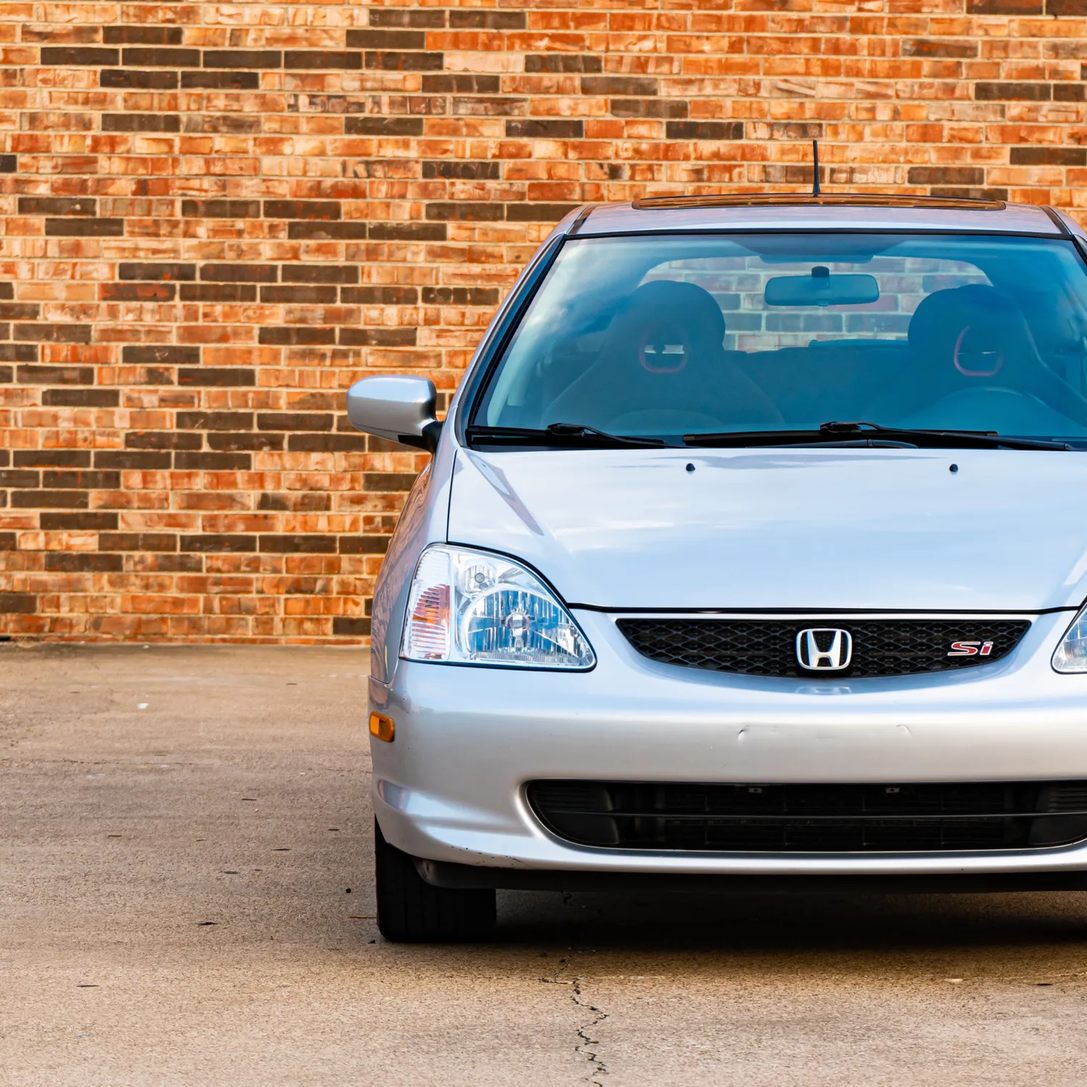
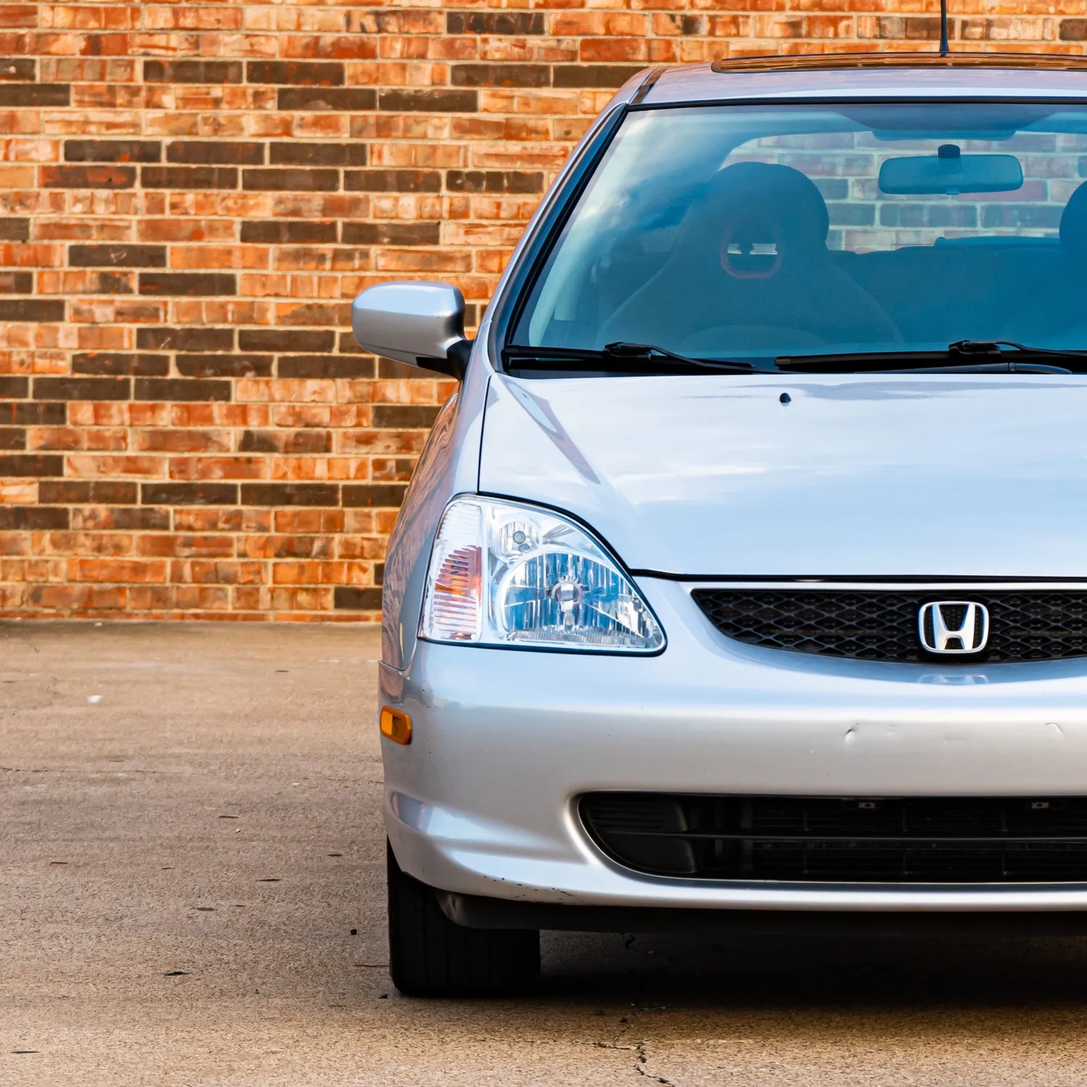
add image descriptions

diff --git a/_site/assets/css/style.css b/_site/assets/css/style.css
@@ -1,1 +1,1 @@
-html,body,div,span,applet,object,iframe,h1,h2,h3,h4,h5,h6,p,blockquote,pre,a,abbr,acronym,address,big,cite,code,del,dfn,em,img,ins,kbd,q,s,samp,small,strike,strong,sub,sup,tt,var,b,u,i,center,dl,dt,dd,ol,ul,li,fieldset,form,label,legend,table,caption,tbody,tfoot,thead,tr,th,td,article,aside,canvas,details,embed,figure,figcaption,footer,header,hgroup,menu,nav,output,ruby,section,summary,time,mark,audio,video{margin:0;padding:0;border:0;font-size:100%;font:inherit;vertical-align:baseline}article,aside,details,figcaption,figure,footer,header,hgroup,menu,nav,section{display:block}body{line-height:1}ol,ul{list-style:none}blockquote,q{quotes:none}blockquote:before,blockquote:after,q:before,q:after{content:"";content:none}table{border-collapse:collapse;border-spacing:0}*,*:after,*:before{box-sizing:inherit}html{--color-text: hsl(208,20%,10%);--color-heading: hsl(208,15%,20%);--color-background: hsl(208,5%,90%);--color-button-primary-default: hsl(208,39%,25%);--color-button-primary-text: hsl(208,39%,100%);--color-button-primary-hover: hsl(208,39%,20%);--color-button-outline-primary-default: hsl(208,39%,25%);--color-button-outline-primary-hover: hsl(208,39%,20%);--color-button-secondary-default: hsl(40,55%,55%);--color-button-secondary-text: hsl(208,20%,10%);--color-button-secondary-hover: hsl(208,20%,10%);--color-link-default: #42668c;--color-link-hover: #294058;--color-link-underline: rgba(41, 64, 88, .25)}[data-ui=dark]{--color-text: hsl(208,20%,90%);--color-heading: hsl(208,15%,90%);--color-background: hsl(208,5%,10%);--color-link-default: #7ea5d0;--color-link-hover: #aeccec;--color-link-underline: rgba(174, 204, 236, .25);--color-button-primary-hover: hsl(208,39%,30%);--color-button-secondary-hover: hsl(40,55%,65%)}.container{max-width:50em;margin:0 auto}dd,dt,li,blockquote,dl,figure,form,ol,p,pre,table,ul,fieldset,input,select,textarea{margin-bottom:2rem}.container-sm{width:100%;margin:0 auto;max-width:640px;position:relative}.container-md{width:100%;margin:0 auto;max-width:769px;position:relative}.container-lg{width:100%;margin:0 auto;max-width:1025px;position:relative}.container-xl{width:100%;margin:0 auto;max-width:1280px;position:relative}b,strong{font-weight:bold}p{color:var(--color-text);margin-top:0;margin-bottom:1.25rem}em{font-style:italic}p:last-child,h1:last-child,h2:last-child,h3:last-child,h4:last-child,h5:last-child,h6:last-child{margin-bottom:0;padding-bottom:0}h1,h2,h3,h4,h5,h6{font-family:"Lato","Helvetica","Arial",sans-serif;font-weight:700;color:var(--color-heading);margin:0 0 1rem 0}h1{font:900 6rem/1 "Lato"}h1 a{font-weight:700}h2{font:900 4rem/1.1 "Lato"}h2 a{font-weight:700}h3{font:700 3rem/1.2 "Lato"}h3 a{font-weight:700}h4{font-size:2.4rem;line-height:1.35}h5{font-size:2rem;line-height:1.4}h6{font-size:1.6rem;letter-spacing:0;line-height:1.4}h1+p,h2+p,h3+p,h4+p,h5+p,h6+p,ul+p,ol+p{margin-top:1rem}ul+h1,ul+h2,ul+h3,ol+h1,ol+h2,ol+h3,p+h1,p+h2,p+h3,a+h1,a+h2,a+h3,ul+h4,ul+h5,ul+h6,ol+h4,ol+h5,ol+h6,p+h4,p+h5,p+h6{margin-top:4rem}sup{vertical-align:super;font-size:.7em}ul{list-style-type:disc;margin-left:2rem}ul li{margin-bottom:1rem}ol{list-style-type:decimal;margin-left:2rem}ol li{margin-bottom:1rem}p{line-height:1.5;margin:0 0 .75em 0}ion-icon{vertical-align:-0.15em}.semibold{font-weight:600}.clearfix:after{clear:both;content:" ";display:table}.float-left{float:left}.float-right{float:right}.hidden{display:none}.features{margin:0;padding:0;list-style-type:none}.features li{margin:0;padding:0}*,*:after,*:before{box-sizing:inherit}html{box-sizing:border-box;font-size:62.5%;overflow-x:hidden;scrollbar-width:thin;background:var(--color-background);scroll-behavior:smooth}body{font-size:100%;font-smoothing:antialiased;-webkit-font-smoothing:antialiased;-moz-osx-font-smoothing:grayscale;color:var(--color-text);font-family:"Source Sans Pro","Helvetica","Arial",sans-serif;font-size:1.8em;font-weight:400;line-height:1.5;margin:0}main{overflow-x:hidden;max-width:100vw}img{width:100%;display:block}a{text-decoration:none;color:var(--color-link-default);font-weight:700;text-transform:uppercase;letter-spacing:.1em}a:focus,a:hover{color:var(--color-link-hover);text-decoration:underline;text-decoration-color:var(--color-link-underline)}dl,ol,ul{list-style:none;margin-top:0;padding-left:0}dl dl,dl ol,dl ul,ol dl,ol ol,ol ul,ul dl,ul ol,ul ul{font-size:90%;margin:1.5rem 0 1.5rem 3rem}ol{list-style:decimal}ul{list-style:circle}.callout{font-size:1.25em;text-align:center;background:#b51a1a;background:linear-gradient(20deg, #8c1010 0%, #d32f2f 100%);padding:4rem}.callout .container{max-width:60ch}figure{margin:0;position:relative;overflow:hidden;flex-grow:1;display:flex;flex-direction:column}@media(min-width: 1025px){figure{height:auto}}figure picture{flex-grow:1;display:block;height:100%}figure img{width:100%;height:100%;object-fit:cover}figure figcaption{position:absolute;width:100%;left:0}.hero img{height:60rem}.caption-bottom figcaption{bottom:0;text-shadow:2px 2px 5px rgba(0,0,0,.5);background-image:linear-gradient(rgba(0, 0, 0, 0), black);padding:6rem 2rem 2rem 2rem}.caption-top figcaption{top:0;background-image:linear-gradient(white, rgba(255, 255, 255, 0));padding:4rem 4rem 20rem 4rem}.section-intro{min-height:60rem}.highlight{border-left:1rem solid #d32f2f;padding-left:2rem}.red-s{color:#d32f2f}.features{display:flex;flex-direction:column;margin:2rem 0 0 0}@media(min-width: 769px){.features{margin:0 0 0 2rem;min-width:35ch;width:30%}}li.feature{flex-grow:1;border-top:1rem solid #d32f2f;padding:2rem;background:#000}li.feature:not(:last-child){margin-bottom:2rem}.viewer-wrapper{width:100vw;height:50vw;position:relative}.viewer{transform-origin:top left;will-change:transform;filter:contrast(105%) saturate(110%);cursor:grab}.viewer:active{cursor:grabbing}.overlay{position:absolute;opacity:1;background:rgba(0,0,0,.5);width:100%;height:100%;z-index:1;display:flex;align-items:center;justify-content:center;pointer-events:none;transition:250ms opacity ease-out}.overlay[data-show=false]{opacity:0}.viewer-button{color:#fff;opacity:.7;line-height:0;position:absolute;font-size:4rem;height:4rem;top:calc(50% - 2rem);z-index:2;background:none;border:none;padding:0;cursor:pointer}.viewer-button:hover,.viewer-button:focus{opacity:1;background:0;border:0}.button-right{right:3%}.button-left{left:3%}.grid{display:grid;width:100%;padding:.5rem;grid-template-columns:1fr;grid-gap:.5rem}@media(min-width: 769px){.grid{grid-template-columns:1fr 1fr}}.grid img{width:100%;height:100%;object-fit:cover}.grid figure{height:100%}.two-up{min-height:20em;height:100%;display:grid;grid-gap:.5rem;grid-template-columns:1fr 1fr}.full{grid-column:span 2}.tall{min-height:30em}.half{grid-column:span 2}@media(min-width: 769px){.half{grid-column:span 1}}.section-marquis{padding:2rem}@media(min-width: 769px){.section-marquis{display:flex;justify-content:center}}.text-block{padding:2rem}#about{background:linear-gradient(45deg, #ccc 0%, #ffffff 100%)}/*# sourceMappingURL=style.css.map */
+html,body,div,span,applet,object,iframe,h1,h2,h3,h4,h5,h6,p,blockquote,pre,a,abbr,acronym,address,big,cite,code,del,dfn,em,img,ins,kbd,q,s,samp,small,strike,strong,sub,sup,tt,var,b,u,i,center,dl,dt,dd,ol,ul,li,fieldset,form,label,legend,table,caption,tbody,tfoot,thead,tr,th,td,article,aside,canvas,details,embed,figure,figcaption,footer,header,hgroup,menu,nav,output,ruby,section,summary,time,mark,audio,video{margin:0;padding:0;border:0;font-size:100%;font:inherit;vertical-align:baseline}article,aside,details,figcaption,figure,footer,header,hgroup,menu,nav,section{display:block}body{line-height:1}ol,ul{list-style:none}blockquote,q{quotes:none}blockquote:before,blockquote:after,q:before,q:after{content:"";content:none}table{border-collapse:collapse;border-spacing:0}*,*:after,*:before{box-sizing:inherit}html{--color-text: hsl(208,20%,10%);--color-heading: hsl(208,15%,20%);--color-background: hsl(208,5%,90%);--color-button-primary-default: hsl(208,39%,25%);--color-button-primary-text: hsl(208,39%,100%);--color-button-primary-hover: hsl(208,39%,20%);--color-button-outline-primary-default: hsl(208,39%,25%);--color-button-outline-primary-hover: hsl(208,39%,20%);--color-button-secondary-default: hsl(40,55%,55%);--color-button-secondary-text: hsl(208,20%,10%);--color-button-secondary-hover: hsl(208,20%,10%);--color-link-default: #42668c;--color-link-hover: #294058;--color-link-underline: rgba(41, 64, 88, .25)}[data-ui=dark]{--color-text: hsl(208,20%,90%);--color-heading: hsl(208,15%,90%);--color-background: hsl(208,5%,10%);--color-link-default: #7ea5d0;--color-link-hover: #aeccec;--color-link-underline: rgba(174, 204, 236, .25);--color-button-primary-hover: hsl(208,39%,30%);--color-button-secondary-hover: hsl(40,55%,65%)}.container{max-width:50em;margin:0 auto}dd,dt,li,blockquote,dl,figure,form,ol,p,pre,table,ul,fieldset,input,select,textarea{margin-bottom:2rem}.container-sm{width:100%;margin:0 auto;max-width:640px;position:relative}.container-md{width:100%;margin:0 auto;max-width:769px;position:relative}.container-lg{width:100%;margin:0 auto;max-width:1025px;position:relative}.container-xl{width:100%;margin:0 auto;max-width:1280px;position:relative}b,strong{font-weight:bold}p{color:var(--color-text);margin-top:0;margin-bottom:1.25rem}em{font-style:italic}p:last-child,h1:last-child,h2:last-child,h3:last-child,h4:last-child,h5:last-child,h6:last-child{margin-bottom:0;padding-bottom:0}h1,h2,h3,h4,h5,h6{font-family:"Lato","Helvetica","Arial",sans-serif;font-weight:700;color:var(--color-heading);margin:0 0 1rem 0}h1{font:900 6rem/1 "Lato"}h1 a{font-weight:700}h2{font:900 4rem/1.1 "Lato"}h2 a{font-weight:700}h3{font:700 3rem/1.2 "Lato"}h3 a{font-weight:700}h4{font-size:2.4rem;line-height:1.35}h5{font-size:2rem;line-height:1.4}h6{font-size:1.6rem;letter-spacing:0;line-height:1.4}h1+p,h2+p,h3+p,h4+p,h5+p,h6+p,ul+p,ol+p{margin-top:1rem}ul+h1,ul+h2,ul+h3,ol+h1,ol+h2,ol+h3,p+h1,p+h2,p+h3,a+h1,a+h2,a+h3,ul+h4,ul+h5,ul+h6,ol+h4,ol+h5,ol+h6,p+h4,p+h5,p+h6{margin-top:4rem}sup{vertical-align:super;font-size:.7em}ul{list-style-type:disc;margin-left:2rem}ul li{margin-bottom:1rem}ol{list-style-type:decimal;margin-left:2rem}ol li{margin-bottom:1rem}p{line-height:1.5;margin:0 0 .75em 0}ion-icon{vertical-align:-0.15em}.semibold{font-weight:600}.clearfix:after{clear:both;content:" ";display:table}.float-left{float:left}.float-right{float:right}.hidden{display:none}.features{margin:0;padding:0;list-style-type:none}.features li{margin:0;padding:0}*,*:after,*:before{box-sizing:inherit}html{box-sizing:border-box;font-size:62.5%;overflow-x:hidden;scrollbar-width:thin;background:var(--color-background);scroll-behavior:smooth}body{font-size:100%;font-smoothing:antialiased;-webkit-font-smoothing:antialiased;-moz-osx-font-smoothing:grayscale;color:var(--color-text);font-family:"Source Sans Pro","Helvetica","Arial",sans-serif;font-size:1.8em;font-weight:400;line-height:1.5;margin:0}main{overflow-x:hidden;max-width:100vw}img{width:100%;display:block}a{text-decoration:none;color:var(--color-link-default);font-weight:700;text-transform:uppercase;letter-spacing:.1em}a:focus,a:hover{color:var(--color-link-hover);text-decoration:underline;text-decoration-color:var(--color-link-underline)}dl,ol,ul{list-style:none;margin-top:0;padding-left:0}dl dl,dl ol,dl ul,ol dl,ol ol,ol ul,ul dl,ul ol,ul ul{font-size:90%;margin:1.5rem 0 1.5rem 3rem}ol{list-style:decimal}ul{list-style:circle}.callout{font-size:1.25em;text-align:center;background:#b51a1a;background:linear-gradient(20deg, #8c1010 0%, #d32f2f 100%);padding:4rem}.callout .container{max-width:60ch}figure{margin:0;position:relative;overflow:hidden;flex-grow:1;display:flex;flex-direction:column}@media(min-width: 1025px){figure{height:auto}}figure picture{flex-grow:1}figure img{width:100%;height:100%;object-fit:cover}figure figcaption{position:absolute;width:100%;left:0}.hero img{position:relative;min-height:50rem}@media(min-width: 769px){.hero img{position:absolute}}.caption-bottom figcaption{bottom:0;text-shadow:2px 2px 5px rgba(0,0,0,.5);background-image:linear-gradient(rgba(0, 0, 0, 0), black);padding:6rem 2rem 2rem 2rem}.caption-top figcaption{top:0;background-image:linear-gradient(white, rgba(255, 255, 255, 0));padding:4rem 4rem 20rem 4rem}.section-intro{min-height:60rem}.highlight{border-left:1rem solid #d32f2f;padding-left:2rem}.red-s{color:#d32f2f}.features{display:flex;flex-direction:column;margin:2rem 0 0 0}@media(min-width: 769px){.features{margin:0 0 0 2rem;min-width:35ch;width:30%}}li.feature{flex-grow:1;border-top:1rem solid #d32f2f;padding:2rem;background:#000}li.feature:not(:last-child){margin-bottom:2rem}.viewer-wrapper{width:100vw;height:50vw;position:relative}.viewer{transform-origin:top left;will-change:transform;filter:contrast(105%) saturate(110%);cursor:grab}.viewer:active{cursor:grabbing}.overlay{position:absolute;opacity:1;background:rgba(0,0,0,.5);width:100%;height:100%;z-index:1;display:flex;align-items:center;justify-content:center;pointer-events:none;transition:250ms opacity ease-out}.overlay[data-show=false]{opacity:0}.viewer-button{color:#fff;opacity:.7;line-height:0;position:absolute;font-size:4rem;height:4rem;top:calc(50% - 2rem);z-index:2;background:none;border:none;padding:0;cursor:pointer}.viewer-button:hover,.viewer-button:focus{opacity:1;background:0;border:0}.button-right{right:3%}.button-left{left:3%}.grid{display:grid;width:100%;padding:.5rem;grid-template-columns:1fr;grid-gap:.5rem}@media(min-width: 769px){.grid{grid-template-columns:1fr 1fr}}.grid img{width:100%;height:100%;object-fit:cover}.grid figure{height:100%}.two-up{min-height:20em;height:100%;display:grid;grid-gap:.5rem;grid-template-columns:1fr 1fr}.full{grid-column:span 2}.tall{min-height:30em}.half{grid-column:span 2}@media(min-width: 769px){.half{grid-column:span 1}}.section-marquis{padding:2rem}@media(min-width: 769px){.section-marquis{display:flex;justify-content:center}}.text-block{padding:2rem}#about{background:linear-gradient(45deg, #ccc 0%, #ffffff 100%)}/*# sourceMappingURL=style.css.map */

diff --git a/assets/css/style.css b/assets/css/style.css
@@ -1,1 +1,1 @@
-html,body,div,span,applet,object,iframe,h1,h2,h3,h4,h5,h6,p,blockquote,pre,a,abbr,acronym,address,big,cite,code,del,dfn,em,img,ins,kbd,q,s,samp,small,strike,strong,sub,sup,tt,var,b,u,i,center,dl,dt,dd,ol,ul,li,fieldset,form,label,legend,table,caption,tbody,tfoot,thead,tr,th,td,article,aside,canvas,details,embed,figure,figcaption,footer,header,hgroup,menu,nav,output,ruby,section,summary,time,mark,audio,video{margin:0;padding:0;border:0;font-size:100%;font:inherit;vertical-align:baseline}article,aside,details,figcaption,figure,footer,header,hgroup,menu,nav,section{display:block}body{line-height:1}ol,ul{list-style:none}blockquote,q{quotes:none}blockquote:before,blockquote:after,q:before,q:after{content:"";content:none}table{border-collapse:collapse;border-spacing:0}*,*:after,*:before{box-sizing:inherit}html{--color-text: hsl(208,20%,10%);--color-heading: hsl(208,15%,20%);--color-background: hsl(208,5%,90%);--color-button-primary-default: hsl(208,39%,25%);--color-button-primary-text: hsl(208,39%,100%);--color-button-primary-hover: hsl(208,39%,20%);--color-button-outline-primary-default: hsl(208,39%,25%);--color-button-outline-primary-hover: hsl(208,39%,20%);--color-button-secondary-default: hsl(40,55%,55%);--color-button-secondary-text: hsl(208,20%,10%);--color-button-secondary-hover: hsl(208,20%,10%);--color-link-default: #42668c;--color-link-hover: #294058;--color-link-underline: rgba(41, 64, 88, .25)}[data-ui=dark]{--color-text: hsl(208,20%,90%);--color-heading: hsl(208,15%,90%);--color-background: hsl(208,5%,10%);--color-link-default: #7ea5d0;--color-link-hover: #aeccec;--color-link-underline: rgba(174, 204, 236, .25);--color-button-primary-hover: hsl(208,39%,30%);--color-button-secondary-hover: hsl(40,55%,65%)}.container{max-width:50em;margin:0 auto}dd,dt,li,blockquote,dl,figure,form,ol,p,pre,table,ul,fieldset,input,select,textarea{margin-bottom:2rem}.container-sm{width:100%;margin:0 auto;max-width:640px;position:relative}.container-md{width:100%;margin:0 auto;max-width:769px;position:relative}.container-lg{width:100%;margin:0 auto;max-width:1025px;position:relative}.container-xl{width:100%;margin:0 auto;max-width:1280px;position:relative}b,strong{font-weight:bold}p{color:var(--color-text);margin-top:0;margin-bottom:1.25rem}em{font-style:italic}p:last-child,h1:last-child,h2:last-child,h3:last-child,h4:last-child,h5:last-child,h6:last-child{margin-bottom:0;padding-bottom:0}h1,h2,h3,h4,h5,h6{font-family:"Lato","Helvetica","Arial",sans-serif;font-weight:700;color:var(--color-heading);margin:0 0 1rem 0}h1{font:900 6rem/1 "Lato"}h1 a{font-weight:700}h2{font:900 4rem/1.1 "Lato"}h2 a{font-weight:700}h3{font:700 3rem/1.2 "Lato"}h3 a{font-weight:700}h4{font-size:2.4rem;line-height:1.35}h5{font-size:2rem;line-height:1.4}h6{font-size:1.6rem;letter-spacing:0;line-height:1.4}h1+p,h2+p,h3+p,h4+p,h5+p,h6+p,ul+p,ol+p{margin-top:1rem}ul+h1,ul+h2,ul+h3,ol+h1,ol+h2,ol+h3,p+h1,p+h2,p+h3,a+h1,a+h2,a+h3,ul+h4,ul+h5,ul+h6,ol+h4,ol+h5,ol+h6,p+h4,p+h5,p+h6{margin-top:4rem}sup{vertical-align:super;font-size:.7em}ul{list-style-type:disc;margin-left:2rem}ul li{margin-bottom:1rem}ol{list-style-type:decimal;margin-left:2rem}ol li{margin-bottom:1rem}p{line-height:1.5;margin:0 0 .75em 0}ion-icon{vertical-align:-0.15em}.semibold{font-weight:600}.clearfix:after{clear:both;content:" ";display:table}.float-left{float:left}.float-right{float:right}.hidden{display:none}.features{margin:0;padding:0;list-style-type:none}.features li{margin:0;padding:0}*,*:after,*:before{box-sizing:inherit}html{box-sizing:border-box;font-size:62.5%;overflow-x:hidden;scrollbar-width:thin;background:var(--color-background);scroll-behavior:smooth}body{font-size:100%;font-smoothing:antialiased;-webkit-font-smoothing:antialiased;-moz-osx-font-smoothing:grayscale;color:var(--color-text);font-family:"Source Sans Pro","Helvetica","Arial",sans-serif;font-size:1.8em;font-weight:400;line-height:1.5;margin:0}main{overflow-x:hidden;max-width:100vw}img{width:100%;display:block}a{text-decoration:none;color:var(--color-link-default);font-weight:700;text-transform:uppercase;letter-spacing:.1em}a:focus,a:hover{color:var(--color-link-hover);text-decoration:underline;text-decoration-color:var(--color-link-underline)}dl,ol,ul{list-style:none;margin-top:0;padding-left:0}dl dl,dl ol,dl ul,ol dl,ol ol,ol ul,ul dl,ul ol,ul ul{font-size:90%;margin:1.5rem 0 1.5rem 3rem}ol{list-style:decimal}ul{list-style:circle}.callout{font-size:1.25em;text-align:center;background:#b51a1a;background:linear-gradient(20deg, #8c1010 0%, #d32f2f 100%);padding:4rem}.callout .container{max-width:60ch}figure{margin:0;position:relative;overflow:hidden;flex-grow:1;display:flex;flex-direction:column}@media(min-width: 1025px){figure{height:auto}}figure picture{flex-grow:1;display:block;height:100%}figure img{width:100%;height:100%;object-fit:cover}figure figcaption{position:absolute;width:100%;left:0}.hero img{height:60rem}.caption-bottom figcaption{bottom:0;text-shadow:2px 2px 5px rgba(0,0,0,.5);background-image:linear-gradient(rgba(0, 0, 0, 0), black);padding:6rem 2rem 2rem 2rem}.caption-top figcaption{top:0;background-image:linear-gradient(white, rgba(255, 255, 255, 0));padding:4rem 4rem 20rem 4rem}.section-intro{min-height:60rem}.highlight{border-left:1rem solid #d32f2f;padding-left:2rem}.red-s{color:#d32f2f}.features{display:flex;flex-direction:column;margin:2rem 0 0 0}@media(min-width: 769px){.features{margin:0 0 0 2rem;min-width:35ch;width:30%}}li.feature{flex-grow:1;border-top:1rem solid #d32f2f;padding:2rem;background:#000}li.feature:not(:last-child){margin-bottom:2rem}.viewer-wrapper{width:100vw;height:50vw;position:relative}.viewer{transform-origin:top left;will-change:transform;filter:contrast(105%) saturate(110%);cursor:grab}.viewer:active{cursor:grabbing}.overlay{position:absolute;opacity:1;background:rgba(0,0,0,.5);width:100%;height:100%;z-index:1;display:flex;align-items:center;justify-content:center;pointer-events:none;transition:250ms opacity ease-out}.overlay[data-show=false]{opacity:0}.viewer-button{color:#fff;opacity:.7;line-height:0;position:absolute;font-size:4rem;height:4rem;top:calc(50% - 2rem);z-index:2;background:none;border:none;padding:0;cursor:pointer}.viewer-button:hover,.viewer-button:focus{opacity:1;background:0;border:0}.button-right{right:3%}.button-left{left:3%}.grid{display:grid;width:100%;padding:.5rem;grid-template-columns:1fr;grid-gap:.5rem}@media(min-width: 769px){.grid{grid-template-columns:1fr 1fr}}.grid img{width:100%;height:100%;object-fit:cover}.grid figure{height:100%}.two-up{min-height:20em;height:100%;display:grid;grid-gap:.5rem;grid-template-columns:1fr 1fr}.full{grid-column:span 2}.tall{min-height:30em}.half{grid-column:span 2}@media(min-width: 769px){.half{grid-column:span 1}}.section-marquis{padding:2rem}@media(min-width: 769px){.section-marquis{display:flex;justify-content:center}}.text-block{padding:2rem}#about{background:linear-gradient(45deg, #ccc 0%, #ffffff 100%)}/*# sourceMappingURL=style.css.map */
+html,body,div,span,applet,object,iframe,h1,h2,h3,h4,h5,h6,p,blockquote,pre,a,abbr,acronym,address,big,cite,code,del,dfn,em,img,ins,kbd,q,s,samp,small,strike,strong,sub,sup,tt,var,b,u,i,center,dl,dt,dd,ol,ul,li,fieldset,form,label,legend,table,caption,tbody,tfoot,thead,tr,th,td,article,aside,canvas,details,embed,figure,figcaption,footer,header,hgroup,menu,nav,output,ruby,section,summary,time,mark,audio,video{margin:0;padding:0;border:0;font-size:100%;font:inherit;vertical-align:baseline}article,aside,details,figcaption,figure,footer,header,hgroup,menu,nav,section{display:block}body{line-height:1}ol,ul{list-style:none}blockquote,q{quotes:none}blockquote:before,blockquote:after,q:before,q:after{content:"";content:none}table{border-collapse:collapse;border-spacing:0}*,*:after,*:before{box-sizing:inherit}html{--color-text: hsl(208,20%,10%);--color-heading: hsl(208,15%,20%);--color-background: hsl(208,5%,90%);--color-button-primary-default: hsl(208,39%,25%);--color-button-primary-text: hsl(208,39%,100%);--color-button-primary-hover: hsl(208,39%,20%);--color-button-outline-primary-default: hsl(208,39%,25%);--color-button-outline-primary-hover: hsl(208,39%,20%);--color-button-secondary-default: hsl(40,55%,55%);--color-button-secondary-text: hsl(208,20%,10%);--color-button-secondary-hover: hsl(208,20%,10%);--color-link-default: #42668c;--color-link-hover: #294058;--color-link-underline: rgba(41, 64, 88, .25)}[data-ui=dark]{--color-text: hsl(208,20%,90%);--color-heading: hsl(208,15%,90%);--color-background: hsl(208,5%,10%);--color-link-default: #7ea5d0;--color-link-hover: #aeccec;--color-link-underline: rgba(174, 204, 236, .25);--color-button-primary-hover: hsl(208,39%,30%);--color-button-secondary-hover: hsl(40,55%,65%)}.container{max-width:50em;margin:0 auto}dd,dt,li,blockquote,dl,figure,form,ol,p,pre,table,ul,fieldset,input,select,textarea{margin-bottom:2rem}.container-sm{width:100%;margin:0 auto;max-width:640px;position:relative}.container-md{width:100%;margin:0 auto;max-width:769px;position:relative}.container-lg{width:100%;margin:0 auto;max-width:1025px;position:relative}.container-xl{width:100%;margin:0 auto;max-width:1280px;position:relative}b,strong{font-weight:bold}p{color:var(--color-text);margin-top:0;margin-bottom:1.25rem}em{font-style:italic}p:last-child,h1:last-child,h2:last-child,h3:last-child,h4:last-child,h5:last-child,h6:last-child{margin-bottom:0;padding-bottom:0}h1,h2,h3,h4,h5,h6{font-family:"Lato","Helvetica","Arial",sans-serif;font-weight:700;color:var(--color-heading);margin:0 0 1rem 0}h1{font:900 6rem/1 "Lato"}h1 a{font-weight:700}h2{font:900 4rem/1.1 "Lato"}h2 a{font-weight:700}h3{font:700 3rem/1.2 "Lato"}h3 a{font-weight:700}h4{font-size:2.4rem;line-height:1.35}h5{font-size:2rem;line-height:1.4}h6{font-size:1.6rem;letter-spacing:0;line-height:1.4}h1+p,h2+p,h3+p,h4+p,h5+p,h6+p,ul+p,ol+p{margin-top:1rem}ul+h1,ul+h2,ul+h3,ol+h1,ol+h2,ol+h3,p+h1,p+h2,p+h3,a+h1,a+h2,a+h3,ul+h4,ul+h5,ul+h6,ol+h4,ol+h5,ol+h6,p+h4,p+h5,p+h6{margin-top:4rem}sup{vertical-align:super;font-size:.7em}ul{list-style-type:disc;margin-left:2rem}ul li{margin-bottom:1rem}ol{list-style-type:decimal;margin-left:2rem}ol li{margin-bottom:1rem}p{line-height:1.5;margin:0 0 .75em 0}ion-icon{vertical-align:-0.15em}.semibold{font-weight:600}.clearfix:after{clear:both;content:" ";display:table}.float-left{float:left}.float-right{float:right}.hidden{display:none}.features{margin:0;padding:0;list-style-type:none}.features li{margin:0;padding:0}*,*:after,*:before{box-sizing:inherit}html{box-sizing:border-box;font-size:62.5%;overflow-x:hidden;scrollbar-width:thin;background:var(--color-background);scroll-behavior:smooth}body{font-size:100%;font-smoothing:antialiased;-webkit-font-smoothing:antialiased;-moz-osx-font-smoothing:grayscale;color:var(--color-text);font-family:"Source Sans Pro","Helvetica","Arial",sans-serif;font-size:1.8em;font-weight:400;line-height:1.5;margin:0}main{overflow-x:hidden;max-width:100vw}img{width:100%;display:block}a{text-decoration:none;color:var(--color-link-default);font-weight:700;text-transform:uppercase;letter-spacing:.1em}a:focus,a:hover{color:var(--color-link-hover);text-decoration:underline;text-decoration-color:var(--color-link-underline)}dl,ol,ul{list-style:none;margin-top:0;padding-left:0}dl dl,dl ol,dl ul,ol dl,ol ol,ol ul,ul dl,ul ol,ul ul{font-size:90%;margin:1.5rem 0 1.5rem 3rem}ol{list-style:decimal}ul{list-style:circle}.callout{font-size:1.25em;text-align:center;background:#b51a1a;background:linear-gradient(20deg, #8c1010 0%, #d32f2f 100%);padding:4rem}.callout .container{max-width:60ch}figure{margin:0;position:relative;overflow:hidden;flex-grow:1;display:flex;flex-direction:column}@media(min-width: 1025px){figure{height:auto}}figure picture{flex-grow:1}figure img{width:100%;height:100%;object-fit:cover}figure figcaption{position:absolute;width:100%;left:0}.hero img{position:relative;min-height:50rem}@media(min-width: 769px){.hero img{position:absolute}}.caption-bottom figcaption{bottom:0;text-shadow:2px 2px 5px rgba(0,0,0,.5);background-image:linear-gradient(rgba(0, 0, 0, 0), black);padding:6rem 2rem 2rem 2rem}.caption-top figcaption{top:0;background-image:linear-gradient(white, rgba(255, 255, 255, 0));padding:4rem 4rem 20rem 4rem}.section-intro{min-height:60rem}.highlight{border-left:1rem solid #d32f2f;padding-left:2rem}.red-s{color:#d32f2f}.features{display:flex;flex-direction:column;margin:2rem 0 0 0}@media(min-width: 769px){.features{margin:0 0 0 2rem;min-width:35ch;width:30%}}li.feature{flex-grow:1;border-top:1rem solid #d32f2f;padding:2rem;background:#000}li.feature:not(:last-child){margin-bottom:2rem}.viewer-wrapper{width:100vw;height:50vw;position:relative}.viewer{transform-origin:top left;will-change:transform;filter:contrast(105%) saturate(110%);cursor:grab}.viewer:active{cursor:grabbing}.overlay{position:absolute;opacity:1;background:rgba(0,0,0,.5);width:100%;height:100%;z-index:1;display:flex;align-items:center;justify-content:center;pointer-events:none;transition:250ms opacity ease-out}.overlay[data-show=false]{opacity:0}.viewer-button{color:#fff;opacity:.7;line-height:0;position:absolute;font-size:4rem;height:4rem;top:calc(50% - 2rem);z-index:2;background:none;border:none;padding:0;cursor:pointer}.viewer-button:hover,.viewer-button:focus{opacity:1;background:0;border:0}.button-right{right:3%}.button-left{left:3%}.grid{display:grid;width:100%;padding:.5rem;grid-template-columns:1fr;grid-gap:.5rem}@media(min-width: 769px){.grid{grid-template-columns:1fr 1fr}}.grid img{width:100%;height:100%;object-fit:cover}.grid figure{height:100%}.two-up{min-height:20em;height:100%;display:grid;grid-gap:.5rem;grid-template-columns:1fr 1fr}.full{grid-column:span 2}.tall{min-height:30em}.half{grid-column:span 2}@media(min-width: 769px){.half{grid-column:span 1}}.section-marquis{padding:2rem}@media(min-width: 769px){.section-marquis{display:flex;justify-content:center}}.text-block{padding:2rem}#about{background:linear-gradient(45deg, #ccc 0%, #ffffff 100%)}/*# sourceMappingURL=style.css.map */

diff --git a/_site/index.html b/_site/index.html
@@ -45,7 +45,7 @@
 		src="/assets/img/hero-600w.jpeg"
 		width="600"
 		height="600"
-		alt="A placeholder image"
+		alt="Front view of a car sitting in front of a brick wall."
 		loading="lazy"
 		decoding="async">
 	</picture>
@@ -161,7 +161,7 @@
 		src="/assets/img/ep35-600w.jpeg"
 		width="600"
 		height="400"
-		alt="A placeholder image"
+		alt="1/4 front view of a car"
 		loading="lazy"
 		decoding="async">
 	</picture>
@@ -182,7 +182,7 @@
 		src="/assets/img/ep312-600w.jpeg"
 		width="600"
 		height="400"
-		alt="A placeholder image"
+		alt="fell view of a car."
 		loading="lazy"
 		decoding="async">
 	</picture>
@@ -196,7 +196,7 @@
 		src="/assets/img/ep310-600w.jpeg"
 		width="600"
 		height="900"
-		alt="A placeholder image"
+		alt="SI badge on the grille of the car."
 		loading="lazy"
 		decoding="async">
 	</picture>
@@ -207,7 +207,7 @@
 		src="/assets/img/ep37-600w.jpeg"
 		width="600"
 		height="900"
-		alt="A placeholder image"
+		alt="Car headlight lines."
 		loading="lazy"
 		decoding="async">
 	</picture>
@@ -222,7 +222,7 @@
 		src="/assets/img/ep33-600w.jpeg"
 		width="600"
 		height="399"
-		alt="A placeholder image"
+		alt="Side view of car sitting infront of a brick wall."
 		loading="lazy"
 		decoding="async">
 	</picture>
@@ -235,7 +235,7 @@
 		src="/assets/img/ep39-600w.jpeg"
 		width="600"
 		height="400"
-		alt="A placeholder image"
+		alt="View of car hood."
 		loading="lazy"
 		decoding="async">
 	</picture>
@@ -248,7 +248,7 @@
 		src="/assets/img/ep313-600w.jpeg"
 		width="600"
 		height="396"
-		alt="A placeholder image"
+		alt="Car engine"
 		loading="lazy"
 		decoding="async">
 	</picture>
@@ -261,7 +261,7 @@
 		src="/assets/img/ep311-600w.jpeg"
 		width="600"
 		height="400"
-		alt="A placeholder image"
+		alt="1/4 view of the rear of a car."
 		loading="lazy"
 		decoding="async">
 	</picture>
@@ -275,7 +275,7 @@
 		src="/assets/img/ep36-600w.jpeg"
 		width="600"
 		height="400"
-		alt="A placeholder image"
+		alt="1/4 view of the front of a car."
 		loading="lazy"
 		decoding="async">
 	</picture>

diff --git a/index.html b/index.html
@@ -6,7 +6,7 @@ description: 5-speed manual transmission, fun hatchback for sale. Clean title, n
 
 <section id="marquis" data-ui="dark" class="section-marquis">
 	<figure class="caption-bottom hero">
-		{% image 'hero.jpg', 'A placeholder image' %}
+		{% image 'hero.jpg', 'Front view of a car sitting in front of a brick wall.' %}
 		<figcaption>
 			<div class="highlight">
 				<h1>2002 Civic <span class="red-s">SI</span></h1>
@@ -112,7 +112,7 @@ description: 5-speed manual transmission, fun hatchback for sale. Clean title, n
 <section id="eye-candy" class="grid" >
 	<div class="full section-intro">
 		<figure class="caption-top">
-			{% image 'ep35.jpg', 'A placeholder image' %}
+			{% image 'ep35.jpg', '1/4 front view of a car' %}
 
 			<figcaption>
 				<div class="highlight">
@@ -123,30 +123,30 @@ description: 5-speed manual transmission, fun hatchback for sale. Clean title, n
 		</figure>
 	</div>
 	<div class="half">
-		{% image 'ep312.jpg', 'A placeholder image' %}
+		{% image 'ep312.jpg', 'fell view of a car.' %}
 	</div>
 	<div class="half">
 		<div class="two-up">
-			{% image 'ep310.jpg', 'A placeholder image' %}
-			{% image 'ep37.jpg', 'A placeholder image' %}
+			{% image 'ep310.jpg', 'SI badge on the grille of the car.' %}
+			{% image 'ep37.jpg', 'Car headlight lines.' %}
 		</div>
 	</div>
 
 	<div class="full">
-		{% image 'ep33.jpg', 'A placeholder image' %}
+		{% image 'ep33.jpg', 'Side view of car sitting infront of a brick wall.' %}
 	</div>
 	<div class="half">
-		{% image 'ep39.jpg', 'A placeholder image' %}
+		{% image 'ep39.jpg', 'View of car hood.' %}
 	</div>
 	<div class="half">
-		{% image 'ep313.jpg', 'A placeholder image' %}
+		{% image 'ep313.jpg', 'Car engine' %}
 	</div>
 	<div class="full">
-		{% image 'ep311.jpg', 'A placeholder image' %}
+		{% image 'ep311.jpg', '1/4 view of the rear of a car.' %}
 	</div>
 
 	<div class="full">
-		{% image 'ep36.jpg', 'A placeholder image' %}
+		{% image 'ep36.jpg', '1/4 view of the front of a car.' %}
 	</div>
 
 </section>

diff --git a/sass/components/_feature.scss b/sass/components/_feature.scss
@@ -10,8 +10,6 @@ figure {
 	}
 	picture {
 		flex-grow: 1;
-		display: block;
-		height: 100%;
 	}
 
 	img {
@@ -28,7 +26,12 @@ figure {
 }
 .hero {
 	img {
-		height: 60rem;
+		position: relative;
+		min-height: 50rem;
+		@include md-and-up {
+			position: absolute;
+		}
+		//max-height: 60rem;
 	}
 }
 
